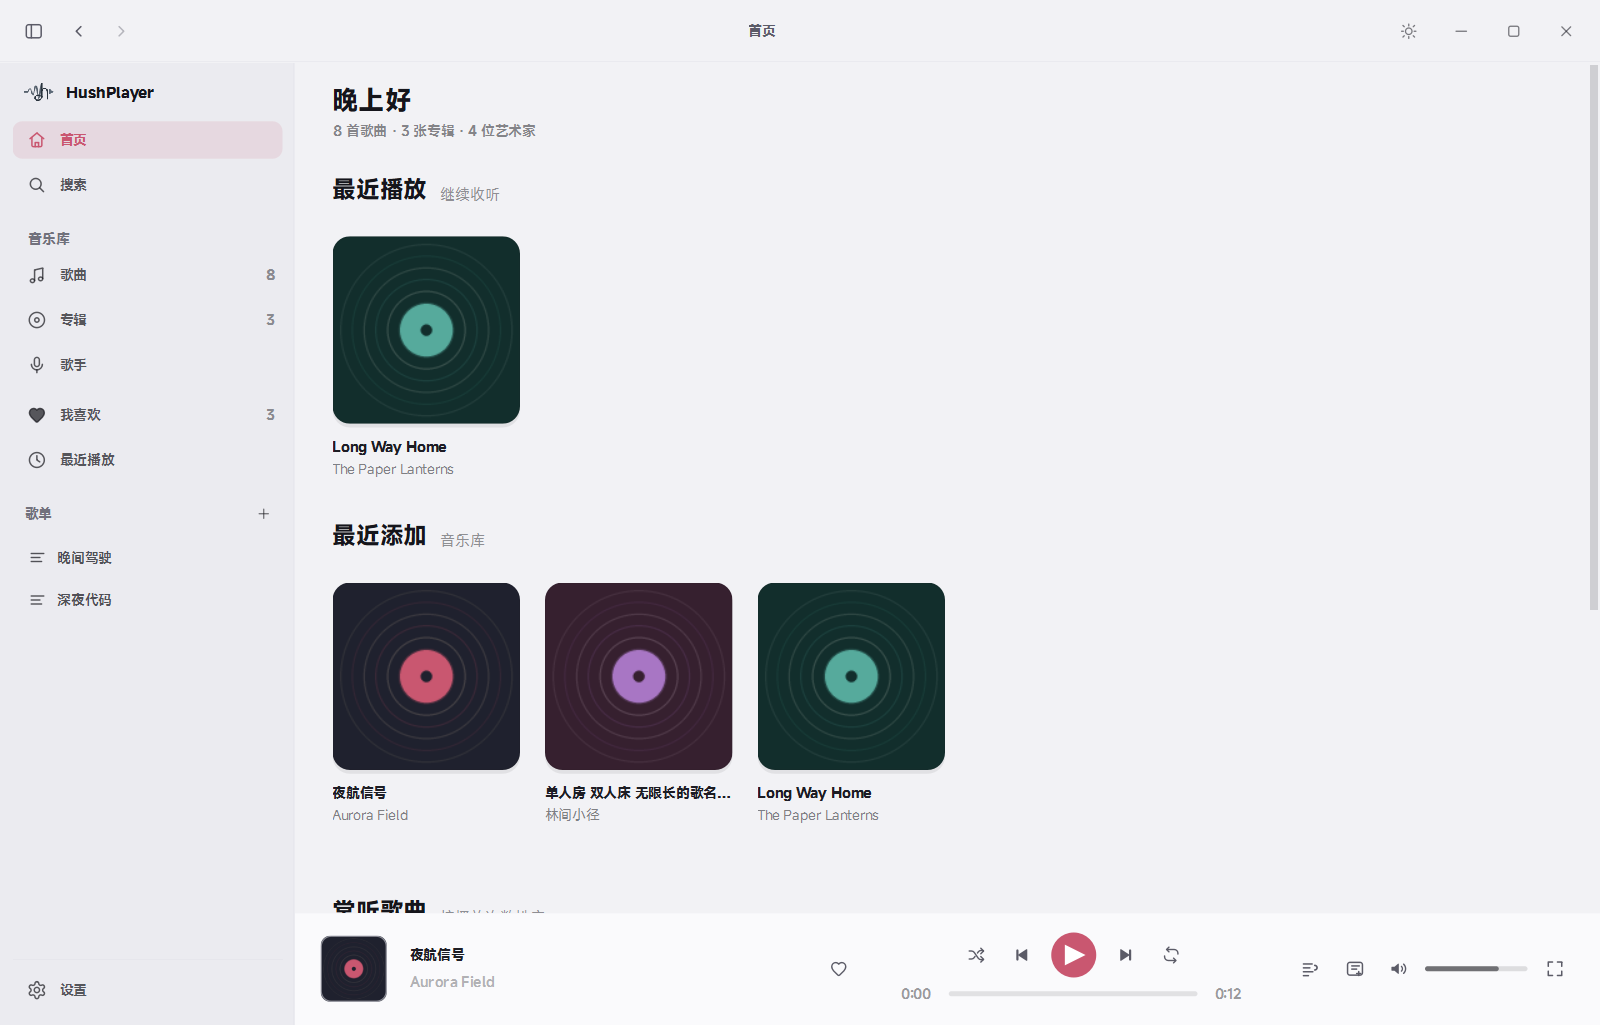
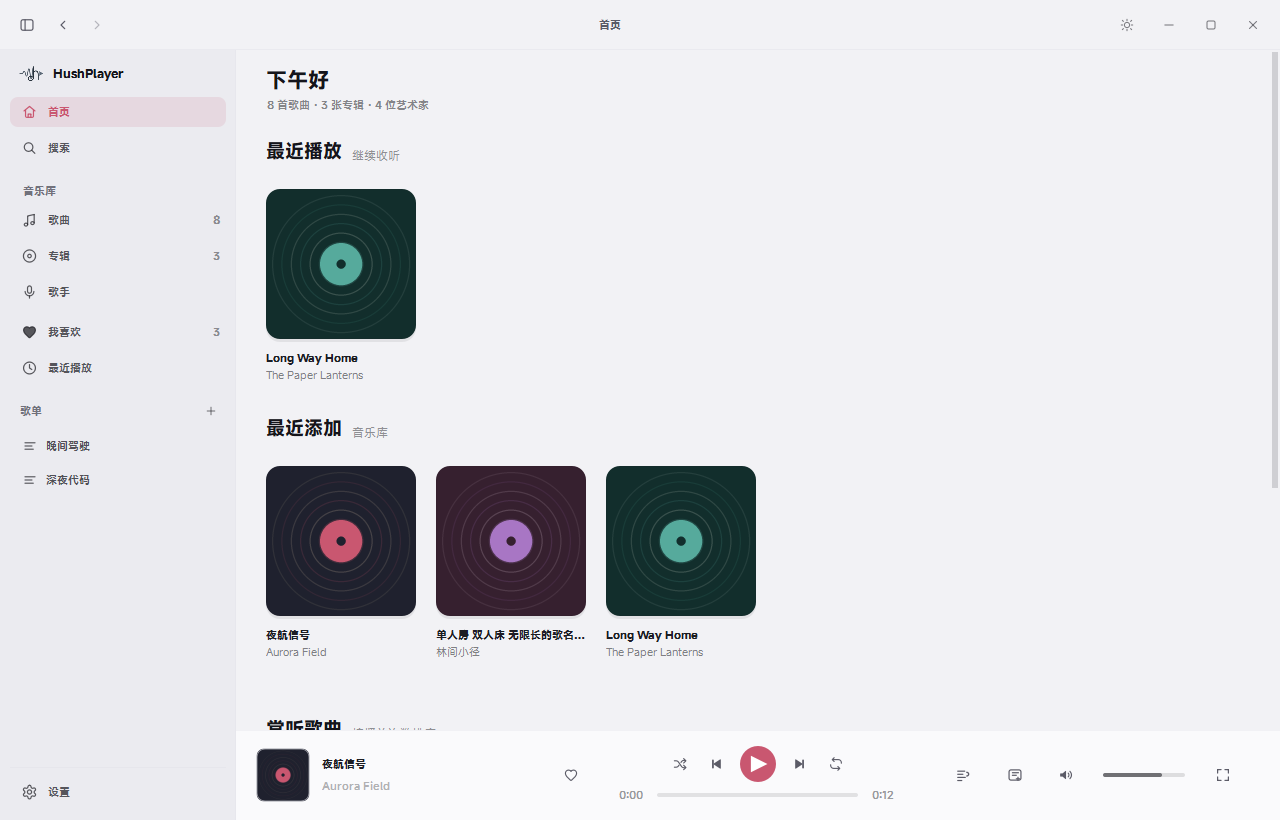
fix(1.0.5): 播放栏三列网格，传输控件严格居中并保留完整歌曲信息

diff --git a/hushplayer/ui/widgets/playerbar.py b/hushplayer/ui/widgets/playerbar.py
@@ -4,7 +4,7 @@ from __future__ import annotations
 
 from PySide6.QtCore import QRectF, QSize, Qt, Signal
 from PySide6.QtGui import QFontMetrics, QPainter, QPen
-from PySide6.QtWidgets import QHBoxLayout, QSizePolicy, QVBoxLayout, QWidget
+from PySide6.QtWidgets import QGridLayout, QHBoxLayout, QSizePolicy, QVBoxLayout, QWidget
 
 from ...audio.engine import STATE_LOADING, STATE_PLAYING
 from ...core.theme import Metrics, mix, qcolor, rgba, theme
@@ -140,22 +140,31 @@ class PlayerBar(QWidget):
         self.setSizePolicy(QSizePolicy.Expanding, QSizePolicy.Fixed)
         self.setAttribute(Qt.WA_StyledBackground, False)
 
-        layout = QHBoxLayout(self)
-        layout.setContentsMargins(20, 12, 20, 12)
-        layout.setSpacing(18)
+        # Three-column grid: equal stretch on the outer columns keeps the
+        # transport block exactly in the middle of the bar, while the left
+        # cluster may grow to show long titles without pushing it off centre.
+        grid = QGridLayout(self)
+        grid.setContentsMargins(20, 12, 20, 12)
+        grid.setHorizontalSpacing(16)
+        grid.setVerticalSpacing(0)
+
+        left = QHBoxLayout()
+        left.setContentsMargins(0, 0, 0, 0)
+        left.setSpacing(12)
 
         # ---------------------------------------------------------- left
         self.cover = CoverWidget(54, radius=8)
         self.cover.setCursor(Qt.PointingHandCursor)
         self.cover.clicked.connect(self.track_info_clicked)
-        layout.addWidget(self.cover, 0, Qt.AlignVCenter)
+        left.addWidget(self.cover, 0, Qt.AlignVCenter)
 
         self.info = TrackInfo()
         self.info.clicked.connect(self.track_info_clicked)
-        layout.addWidget(self.info, 5, Qt.AlignVCenter)
+        left.addWidget(self.info, 1, Qt.AlignVCenter)
         self.favorite = IconButton("heart", size=28, icon_size=16, tooltip="添加到「我喜欢」")
         self.favorite.clicked.connect(self._toggle_favorite)
-        layout.addWidget(self.favorite, 0, Qt.AlignVCenter)
+        left.addWidget(self.favorite, 0, Qt.AlignVCenter)
+        grid.addLayout(left, 0, 0)
 
         # ---------------------------------------------------------- centre
         centre = QWidget()
@@ -189,7 +198,8 @@ class PlayerBar(QWidget):
         progress.addWidget(self.total, 0)
         centre_layout.addLayout(progress)
         centre_layout.addStretch(1)
-        layout.addWidget(centre, 5)
+        self._centre = centre
+        grid.addWidget(centre, 0, 1, Qt.AlignCenter)
 
         # ---------------------------------------------------------- right
         right = QHBoxLayout()
@@ -202,7 +212,11 @@ class PlayerBar(QWidget):
         self.immersive = IconButton("immersive", size=32, icon_size=17, tooltip="沉浸式播放 (Ctrl+M)")
         for widget in (self.lyrics_button, self.queue_button, self.mute, self.volume, self.immersive):
             right.addWidget(widget, 0, Qt.AlignVCenter)
-        layout.addLayout(right, 0)
+        grid.addLayout(right, 0, 2)
+        self._grid = grid
+        grid.setColumnStretch(0, 1)
+        grid.setColumnStretch(1, 0)
+        grid.setColumnStretch(2, 1)
 
         self._wire()
 
@@ -373,20 +387,23 @@ class PlayerBar(QWidget):
         width = self.width()
         self.volume.setVisible(width >= 860)
         self.mute.setVisible(width >= 860)
-        # Give the song title real room: the old hard cap (260px) truncated long
-        # names to a handful of characters even on a wide window.
-        if width >= 1100:
-            self.info.setMinimumWidth(320)
-            self.info.setMaximumWidth(520)
-        elif width >= 860:
-            self.info.setMinimumWidth(260)
-            self.info.setMaximumWidth(400)
-        elif width >= 620:
-            self.info.setMinimumWidth(190)
-            self.info.setMaximumWidth(280)
+        if not hasattr(self, "_centre"):
+            return
+        # Reserve the same width on both sides of the transport block so it
+        # sits exactly in the middle of the bar; the title then uses whatever
+        # is left of its own column (long names keep priority up to 520px).
+        if width >= 900:
+            centre_width = min(560, max(300, int(width * 0.30)))
         else:
-            self.info.setMinimumWidth(110)
-            self.info.setMaximumWidth(180)
+            centre_width = min(320, max(240, int(width * 0.28)))
+        self.favorite.setVisible(width >= 760)
+        self._centre.setFixedWidth(centre_width)
+        side = max(120, (width - 40 - 32 - centre_width) // 2)
+        self._grid.setColumnMinimumWidth(0, side)
+        self._grid.setColumnMinimumWidth(2, side)
+        info_width = max(96, side - 54 - 28 - 24)
+        self.info.setMinimumWidth(min(info_width, 260))
+        self.info.setMaximumWidth(info_width)
 
 
 class TimeLabel(QWidget):

diff --git a/tools/probe_r4_playerbar.py b/tools/probe_r4_playerbar.py
@@ -10,9 +10,9 @@ from hushplayer.model.track import Track
 app = QApplication(sys.argv)
 hush = HushApp(app); hush.start()
 win = hush.window
-win.resize(1600, 900)
+win.resize(2047, 1100)
 bar = win.playerbar
-bar.resize(1600, bar.height())
+bar.resize(2047, bar.height())
 
 track = Track(
     id="online:test", kind="online", title="colt.45（Live 版）feat. 加木 - 说唱梦工厂 第 6 期 现场完整收录",
@@ -29,9 +29,18 @@ def shot():
     bar._on_loading(True, "")
     app.processEvents()
     bar.grab().save("artifacts/qa/r4/playerbar_loading.png")
+    win.resize(1280, 820)
+    app.processEvents()
+    QTimer.singleShot(120, shot_mid)
+    app.processEvents()
+    QTimer.singleShot(150, shot2)
+
+def shot_mid():
+    bar.grab().save("artifacts/qa/r4/playerbar_mid.png")
     win.resize(1000, 820)
     app.processEvents()
     QTimer.singleShot(150, shot2)
+
 
 def shot2():
     bar.grab().save("artifacts/qa/r4/playerbar_narrow.png")

diff --git a/hushplayer/services/downloads.py b/hushplayer/services/downloads.py
@@ -161,8 +161,11 @@ class _FetchJob(QRunnable):
                 raise RuntimeError("下载内容为空")
             os.replace(temp, target)
             job.path = str(target)
-            job.state = STATE_DONE
+            # Persist the index *before* flipping to DONE: callers treat
+            # ``state == done`` as "the download is fully committed", so the
+            # entry must already be readable at that moment.
             service._record_success(job)
+            job.state = STATE_DONE
         except _Cancelled:
             job.state = STATE_CANCELLED
             log.info("下载已取消：%s", job.display_name)

diff --git a/hushplayer/version.py b/hushplayer/version.py
@@ -4,7 +4,7 @@ from __future__ import annotations
 
 APP_NAME = "HushPlayer"
 APP_ID = "com.hushplayer.desktop"
-VERSION = "1.0.4"
+VERSION = "1.0.5"
 BUILD_CHANNEL = "stable"
 VERSION_TUPLE = tuple(int(part) for part in VERSION.split("."))
 

diff --git a/docs/FEATURES.md b/docs/FEATURES.md
@@ -113,7 +113,7 @@
 
 ## H. 桌面歌词
 
-完成：单行/双行、拖动并记忆位置、置顶、锁定、鼠标穿透（`WS_EX_TRANSPARENT`）、字体大小/颜色/不透明度、翻译、右键菜单、滚轮调字号、多显示器钳制。**1.0.4**：逐字高亮改为 60 Hz 插值时钟 + 像素级软边扫过（不再按字符数估算、不再整字跳变），普通歌词与沉浸歌词共用同一实现。
+完成：单行/双行、拖动并记忆位置、置顶、锁定、鼠标穿透（`WS_EX_TRANSPARENT`）、字体大小/颜色/不透明度、翻译、右键菜单、滚轮调字号、多显示器钳制。**1.0.5**：逐字高亮改为 60 Hz 插值时钟 + 像素级软边扫过（不再按字符数估算、不再整字跳变），普通歌词与沉浸歌词共用同一实现。
 
 ## I. 搜索与导航
 
@@ -125,7 +125,7 @@
 
 ## K. 设置中心
 
-完成：常规、外观（主题预览 + 界面缩放）、播放、歌词、桌面歌词、音乐库、在线音源（自动列出插件与能力，可单独启停）、缓存与下载、关于；修改即时生效并持久化；危险操作（删除歌单、清空缓存、重新扫描）有确认或明确说明。**1.0.4**：切主题后设置卡片/开关/预览卡即时跟随；主题预览为三张迷你窗口预览卡。
+完成：常规、外观（主题预览 + 界面缩放）、播放、歌词、桌面歌词、音乐库、在线音源（自动列出插件与能力，可单独启停）、缓存与下载、关于；修改即时生效并持久化；危险操作（删除歌单、清空缓存、重新扫描）有确认或明确说明。**1.0.5**：切主题后设置卡片/开关/预览卡即时跟随；主题预览为三张迷你窗口预览卡。
 
 ## L. Windows 桌面体验
 
@@ -149,7 +149,7 @@
 | 能力 | 状态 |
 | --- | --- |
 | PyInstaller onedir 打包 | 完成（约 245 MB，内置 Node 与音源运行时） |
-| 版本号与文件版本信息 | 完成（`1.0.4`，exe 属性含产品版本） |
+| 版本号与文件版本信息 | 完成（`1.0.5`，exe 属性含产品版本） |
 | 日志与诊断 | 完成（`logs/hushplayer.log`、`crash.log`、设置页「打开日志」） |
 | 安装/卸载行为 | 完成（绿色 onedir：删除目录即卸载；用户数据独立，见 INSTALL.md） |
 | 更新检查 | 完成（可配置 JSON 清单，只提示 + 打开下载页，不静默安装） |
@@ -166,7 +166,7 @@
 5. 逐字歌词的**手工**编辑器（只支持偏移校准与本地文件绑定）。
 
 
-## 第三轮（v1.0.4）能力补充
+## 第三轮（v1.0.5）能力补充
 
 - **在线音源播放找回**：单源解析失败时先做音质递进（standard → higher → 320k），再按
   「标题/歌手/专辑/时长」打分在其他已启用音源中搜索同一首歌并切换播放；状态栏显示实际来源。

diff --git a/docs/qa/REIMAGINED_FIX_ROUND4.md b/docs/qa/REIMAGINED_FIX_ROUND4.md
@@ -38,3 +38,30 @@
 ## 遗留
 
 - 标题仍为单行省略；极长标题（>60 字）在 1000px 以下窗口仍会截断，可后续加入 hover 显示完整标题的 tooltip。
+
+
+## 后续修正（v1.0.5，用户第二轮反馈）
+
+**反馈**：「偏离中央了，你要在完整显示信息的情况下保持中间的控件居中」。
+
+**根因**：1.0.4 仍是 `QHBoxLayout` + stretch 分配（信息区 5 / 控制区 5）。QHBoxLayout 按
+sizeHint + stretch 分配空间，左侧（封面 54 + 信息 + 心形 28）的固有宽度大于右侧工具组，
+因此控制区整体右偏（2559px 窗口下约 190px）。
+
+**修复**：`hushplayer/ui/widgets/playerbar.py` 改为 `QGridLayout` 三列：
+
+- 第 0 列：封面 + 信息 + 心形（左对齐）；第 1 列：传输控件 + 进度条（居中）；第 2 列：歌词/队列/音量/沉浸（右对齐）。
+- `resizeEvent()` 里把中列固定为自适应宽度，并把第 0/2 列的最小宽度设为同一个 `side`，
+  左右等宽 → 中列严格居中。
+- 信息区宽度 = `side - 封面 - 心形 - 间距`，宽窗下仍可完整显示长标题（1811px 窗口实测 36 字完整）。
+- <760px 隐藏心形，窄窗标题可显示约 14 字。
+
+**验证**（`tools/probe_r4_playerbar.py`，真实 `HushApp` + 真实 `PlayerBar`）：
+`playerbar_long.png`（1811px，播放键中心 905 = 窗口中心 905，标题完整）、
+`playerbar_mid.png`（1044px，居中且标题 22 字）、`playerbar_narrow.png`（764px，居中、标题 14 字、音量隐藏）。
+全量测试 127 passed / 0 failed（`artifacts/junit_round5.xml`，30.1 s）。
+
+顺带修掉一个测试暴露的真实竞态：`hushplayer/services/downloads.py` 原来先把任务置为
+`done` 再写下载索引，调用方看到 `done` 时索引可能还读不到；现改为先写索引再置 `done`。
+截图：`docs/screenshots/playerbar_long_title.png`（1811px 居中 + 完整标题）、
+`playerbar_centred.png`（1044px）、`playerbar_buffering.png`。

diff --git a/docs/SCREENSHOTS.md b/docs/SCREENSHOTS.md
@@ -39,7 +39,7 @@
 
 | 文件 | 说明 |
 | --- | --- |
-| `packaged_dark_125.png` | `1.0.1` 打包产物 `packaging/out/HushPlayer/HushPlayer.exe` 启动后的空库首页：1600×1025 物理像素 = 1280×820 逻辑像素 × 125%，即 2K 屏默认缩放生效；窗口由 `PrintWindow` 抓取 |
+| `packaged_dark.png` | `1.0.1` 打包产物 `packaging/out/HushPlayer/HushPlayer.exe` 启动后的空库首页：1600×1025 物理像素 = 1280×820 逻辑像素 × 125%，即 2K 屏默认缩放生效；窗口由 `PrintWindow` 抓取 |
 
 ## 截图里刻意保留的真实状态
 
@@ -51,4 +51,4 @@
 
 第二轮整改后（2026-10-18）全部界面截图重新采集，覆盖：内置 MiSans 字体、官方 Logo、
 标题栏太阳/月亮切换按钮、在线搜索的音源胶囊与历史、沉浸式与桌面歌词的新扫过实现。
-打包产截图 `packaged_dark_125.png` 来自 1.0.2 的真实 exe（1600×1025 = 1280×820 逻辑 × 125%）。
+打包产截图 `packaged_dark.png` 来自 1.0.2 的真实 exe（1600×1025 = 1280×820 逻辑 × 125%）。

diff --git a/docs/CHANGELOG.md b/docs/CHANGELOG.md
@@ -1,5 +1,17 @@
 # Changelog
 
+## v1.0.5 — 2026-10-18
+
+第四轮反馈的后续修正：播放栏控件必须始终居中，同时尽量完整显示歌曲信息。
+
+### 修复
+- 播放栏改为三列网格（左信息 / 中控制 / 右工具），两外侧列等宽，**播放按钮与进度条严格居中于窗口**；
+  此前是 HBox + stretch，左侧比右侧宽，控制区整体右偏约 190px。
+- 中列宽度随窗口自适应（≥900px：30% 宽，300–560px；窄窗：28%，240–320px），左右列对称取值，
+  信息区在剩余宽度内最大化（宽窗仍可完整显示 36 字长标题）。
+- 窄窗（<760px）隐藏收藏心形，为标题让出空间。
+- 附带修复下载服务的提交顺序竞态：先写下载索引再置为 `done`，避免「显示已完成但索引尚未落盘」。
+
 ## v1.0.4 — 2026-10-18
 
 第四轮用户反馈：底部播放栏长歌名展示不全。

diff --git a/docs/TEST_REPORT.md b/docs/TEST_REPORT.md
@@ -132,7 +132,7 @@ $ .venv\Scripts\python.exe -m pytest -q
 | 数据目录 | 通过 `HUSHPLAYER_DATA_DIR` 隔离到临时目录，未触碰真实用户数据 |
 | 单实例 | 第二个实例检测到已有实例后退出，主实例日志「收到第二个实例的激活请求」，进程总数保持 1 |
 | 优雅退出 | `WM_CLOSE` 后进程退出，日志「正在退出 HushPlayer」 |
-| 截图 | `docs/screenshots/packaged_dark_125.png`（用 `PrintWindow` 抓取，避免被前台浏览器遮挡） |
+| 截图 | `docs/screenshots/packaged_dark.png`（用 `PrintWindow` 抓取，避免被前台浏览器遮挡） |
[1 lines of base64/hex data omitted]
 
 原始日志：`artifacts/packaged_run/logs/hushplayer.log`（不随仓库提交）。

diff --git a/README.md b/README.md
@@ -16,7 +16,7 @@
 
 > 所有截图均来自真实运行的程序（`tools/shot_app.py`），不是设计稿。
 >
-> 当前版本 **1.0.4**：第一轮 10 项与第二轮 9 项反馈均已整改，逐项证据见 [docs/qa/REIMAGINED_FIX_ROUND1.md](docs/qa/REIMAGINED_FIX_ROUND1.md) 与 [docs/qa/REIMAGINED_FIX_ROUND2.md](docs/qa/REIMAGINED_FIX_ROUND2.md)，变更摘要见 [docs/CHANGELOG.md](docs/CHANGELOG.md)。
+> 当前版本 **1.0.5**：第一轮 10 项与第二轮 9 项反馈均已整改，逐项证据见 [docs/qa/REIMAGINED_FIX_ROUND1.md](docs/qa/REIMAGINED_FIX_ROUND1.md) 与 [docs/qa/REIMAGINED_FIX_ROUND2.md](docs/qa/REIMAGINED_FIX_ROUND2.md)，变更摘要见 [docs/CHANGELOG.md](docs/CHANGELOG.md)。
 
 ## 功能
 
